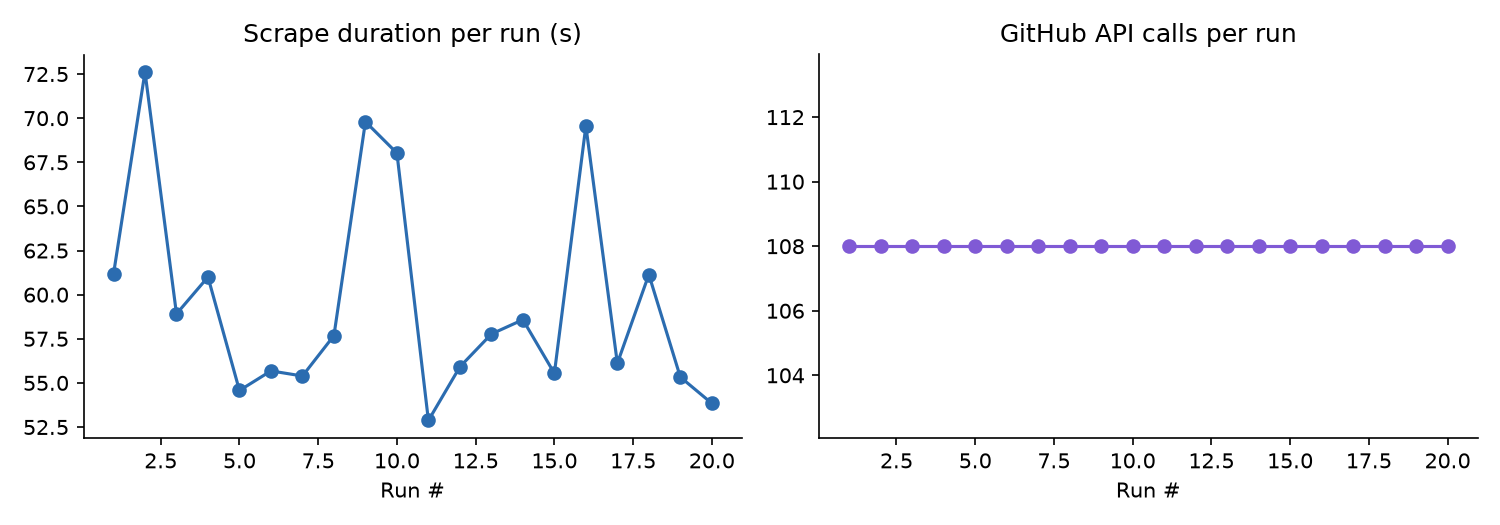
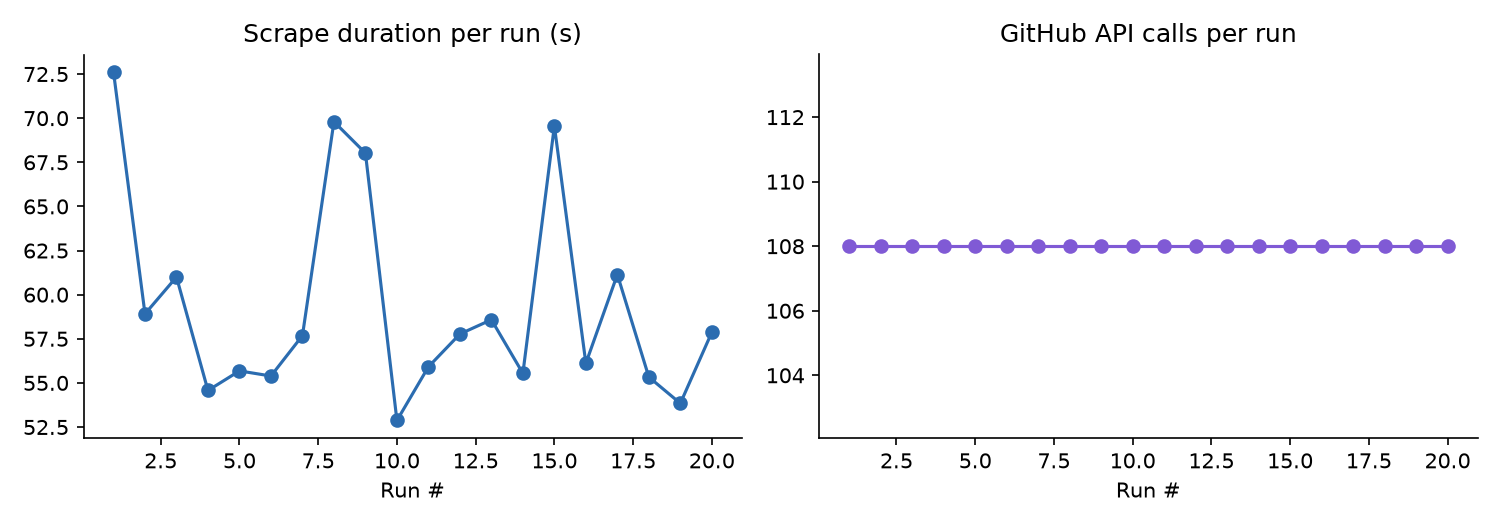
Weekly issue tracker refresh

diff --git a/README.md b/README.md
@@ -81,7 +81,7 @@ See [CONTRIBUTING.md](CONTRIBUTING.md) for the full contributor workflow — inc
 
 <!-- TRACKER:START -->
 
-_Last updated: 2026-07-30 05:28 UTC_
+_Last updated: 2026-07-30 06:20 UTC_
 
 _Tracking **18** upstream repos, **389** relevant open issues._
 
@@ -295,7 +295,7 @@ _Tracking **18** upstream repos, **389** relevant open issues._
 
 <!-- METRICS:START -->
 
-_Last run: 2026-07-30 05:27 UTC, took **53.8s**, **108** GitHub API calls, **4929/5000** rate limit remaining._
+_Last run: 2026-07-30 06:19 UTC, took **57.9s**, **108** GitHub API calls, **4822/5000** rate limit remaining._
 
 ![Scrape metrics trend](assets/metrics_trend.png)
 
